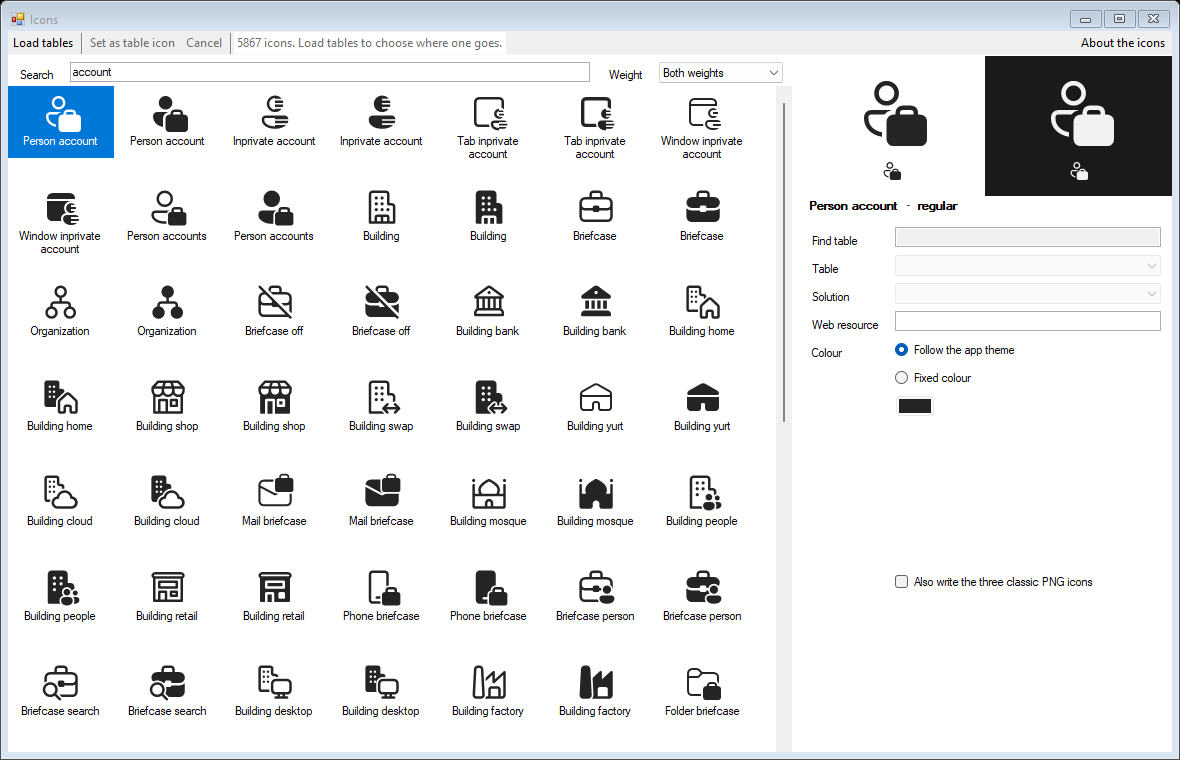
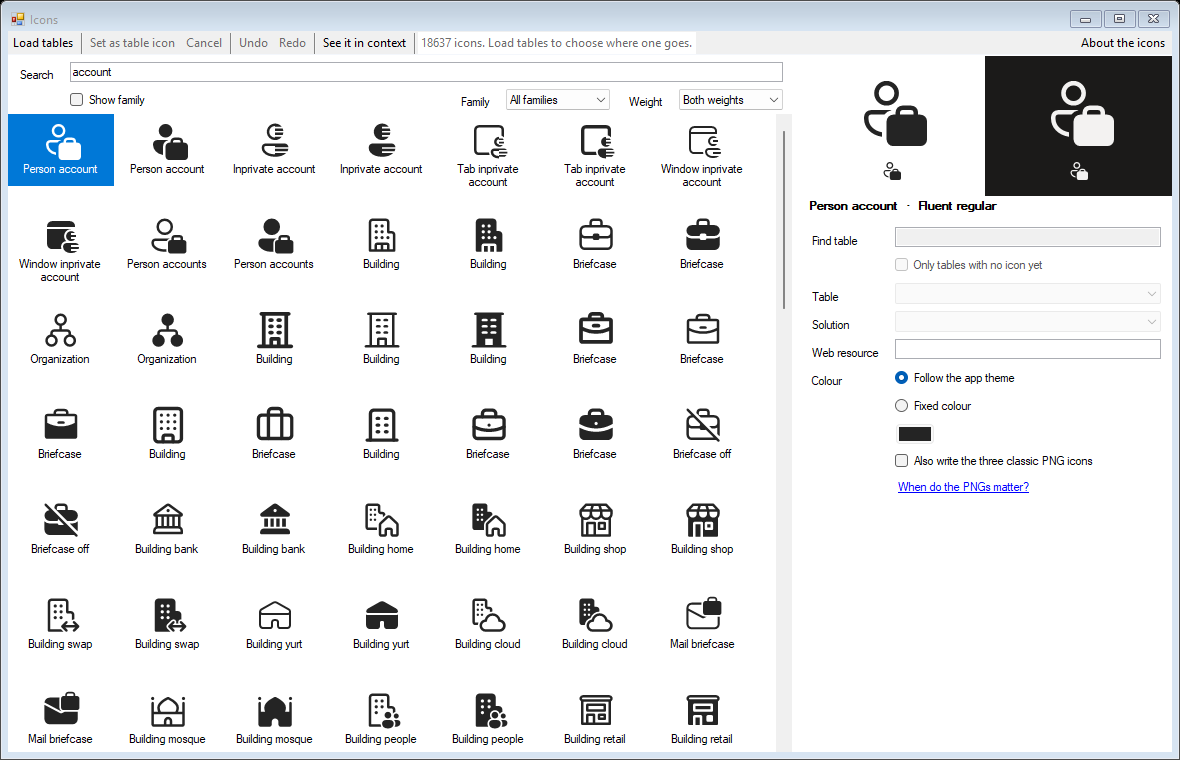
Say that Ctrl+Z is there, and photograph a window that has it
The README's screenshot was three features stale - 5,867 icons, no family
filter, no unset-only box, no in-context preview - so it is retaken from the UI
harness rather than patched, and now shows the toolbar the tool actually has.

diff --git a/TODO.md b/TODO.md
@@ -96,7 +96,21 @@
       environment has no dark theme — Set Personal Options offers high contrast and nothing else
       — and deriving one from the light palette is a guess wearing a measurement's clothes.
       `docs/ui-measurements/notes.md` has the table and says what was not walked.
-- [ ] Ctrl+Z / Ctrl+Y — undo and redo.
+- [x] Ctrl+Z / Ctrl+Y — undo and redo. Of the write, not of the window: everything else here is
+      two clicks to do again by hand, and applying is the one thing that costs real effort to take
+      back now that it moves you off the table and drops it out of the unset-only list. Undo points
+      the table back at whatever it named before — or at nothing — puts back the drawing the apply
+      wrote over, and publishes; redo sends the same request again. It asks first, because this is
+      another write to somebody's environment rather than a keystroke against a document, and it
+      lands back on the table it just changed instead of the next one waiting. Inside a text box
+      the keystroke is left alone.
+      What it does not undo: the web resource itself. One this tool created stays where it is with
+      nothing pointing at it, because deleting out of a solution the customer ships is its own
+      decision. Nor does it survive the connection changing — the stack names a table in one org.
+      One thing had to be measured rather than assumed, and it was the opposite of what it looks
+      like: clearing an icon is an empty string, not null. A null in IconVectorName is read as
+      "leave this one alone", so an undo written that way publishes, reports success and changes
+      nothing. `tests/e2e.ps1` asks the platform that question on every run.
 - [x] Smooth the UX overall — fewer clicks to get an icon assigned. The table seeds the search,
       Enter reaches the results, a filter of one table is that table, a finished write reports on
       the status line rather than in a dialog, and applying lands on the next table waiting.

diff --git a/README.md b/README.md
@@ -60,6 +60,12 @@ resources, update table definitions and publish customisations.
 - **One button to apply** — stores the SVG as a web resource, sets the table's `IconVectorName`,
   and publishes the table and the web resource together in a single call. Publishing only one of
   them is how you get an app that shows the old icon, or asks for one that is not there yet.
+- **Ctrl+Z takes it back** — undo puts the table back where the apply found it: pointing at the
+  icon it named before, or at no icon at all, with the drawing that was written over back as it
+  was. Ctrl+Y does it again. It is another write and another publish rather than a keystroke
+  against something in memory, so it asks first, and it lands you back on the table it just put
+  back. It never deletes: a web resource this tool wrote stays where it is, with nothing pointing
+  at it.
 - **The classic PNG icons too, if you want them** — optionally generates and stores the 16×16,
   32×32 and 66×48 images for the older `IconSmallName`, `IconMediumName` and `IconLargeName`
   properties. Off by default, because Microsoft's guidance is to use the vector instead.
@@ -86,6 +92,9 @@ resources, update table definitions and publish customisations.
 5. Choose the theme colour or a fixed one.
 6. **Set as table icon**, and confirm. The status line says what was set on what; hover it for
    which web resources were created, which were updated, and what was published.
+7. Wrong icon on that one? **Ctrl+Z**, and confirm — the table goes back to what it had, and the
+   window lands on it again with the library still open. **Ctrl+Y** puts it back. Inside a text
+   box Ctrl+Z is left alone: there it still means the name you were halfway through typing.
 
 With *Only tables with no icon yet* ticked, applying drops that table out of the list and lands on
 the next one waiting — a name suggested for it, a search already made for it — so a run down the
